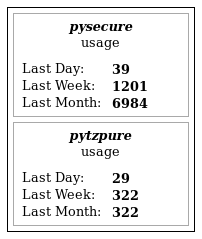
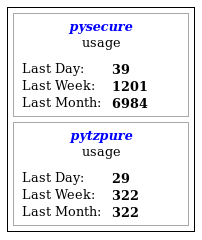
Package name is now linked.

diff --git a/pypi/jquery.pypi.js b/pypi/jquery.pypi.js
@@ -3,6 +3,14 @@
         if(typeof(options) == 'undefined')
             options = {}
 
+        var package_ = options.package;
+        if(typeof(package_) == 'undefined')
+            package_ = this.attr("data-package");
+
+        if(typeof(package_) == 'undefined')
+            throw "A package-name has not been provided.";
+
+        var package_url = "https://pypi.python.org/pypi/" + package_;
         var parent = this;
 
         function received(data)
@@ -15,7 +23,7 @@
 
             var html = "<div class=\"pypi-container\">" +
                          "<div class=\"pypi-title\">" +
-                            "<em>" + name + "</em><br />usage" +
+                            "<em><a href=\"" + package_url + "\" target=\"_blank\">" + name + "</a></em><br />usage" +
                          "</div>" +
                          "<div class=\"pypi-row\">" + 
                            "<div class=\"pypi-label\">" +
@@ -49,17 +57,7 @@
             parent.html(html);
         }
 
-        var package_ = options.package;
-        if(typeof(package_) == 'undefined')
-            package_ = this.attr("data-package");
-
-        if(typeof(package_) == 'undefined')
-            throw "A package-name has not been provided.";
-
-        var url = "https://pypi.python.org/pypi/" +
-                  package_ +
-                  "/json?callback=?";
-
+        var url = package_url + "/json?callback=?";
         $.getJSON(url, received);
 
         return this;

diff --git a/pypi/jquery.pypi.css b/pypi/jquery.pypi.css
@@ -1,6 +1,7 @@
 .pypi-float-stop { clear: both; }
 .pypi-container { font-size: 0.8em; border: 1px solid darkgray; width: 158px; padding: 4px 8px; }
 .pypi-container .pypi-title { margin-bottom: 10px; text-align: center; }
+.pypi-container .pypi-title a { color: blue; text-decoration: none; }
 .pypi-container .pypi-title em { font-weight: bold; }
 .pypi-container .pypi-row { width: 149px; }
 .pypi-container .pypi-row .pypi-label { float: left; width: 90px; }
